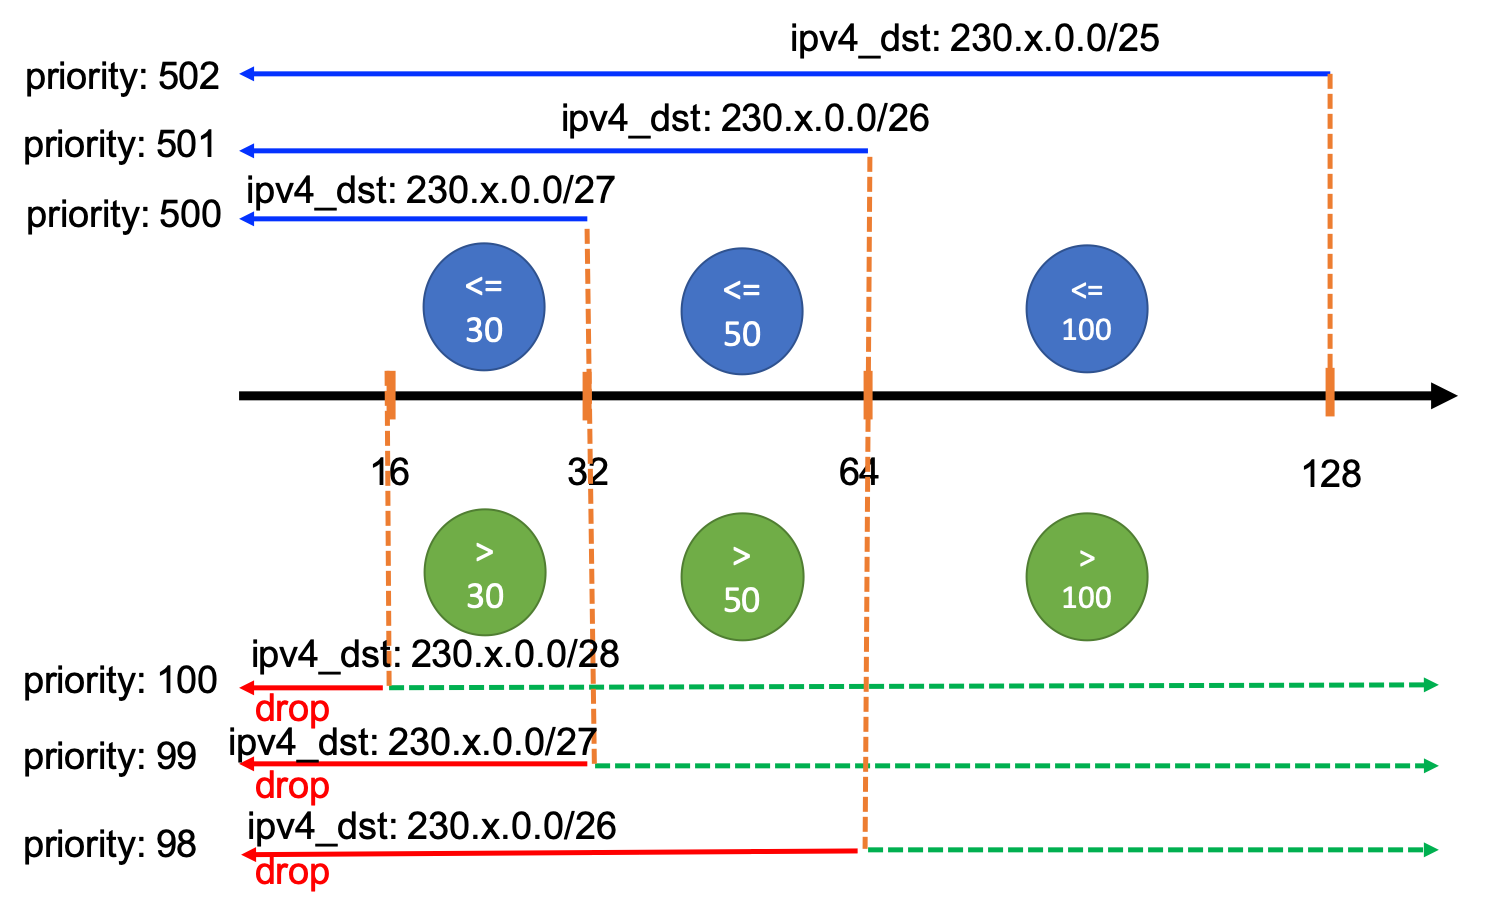
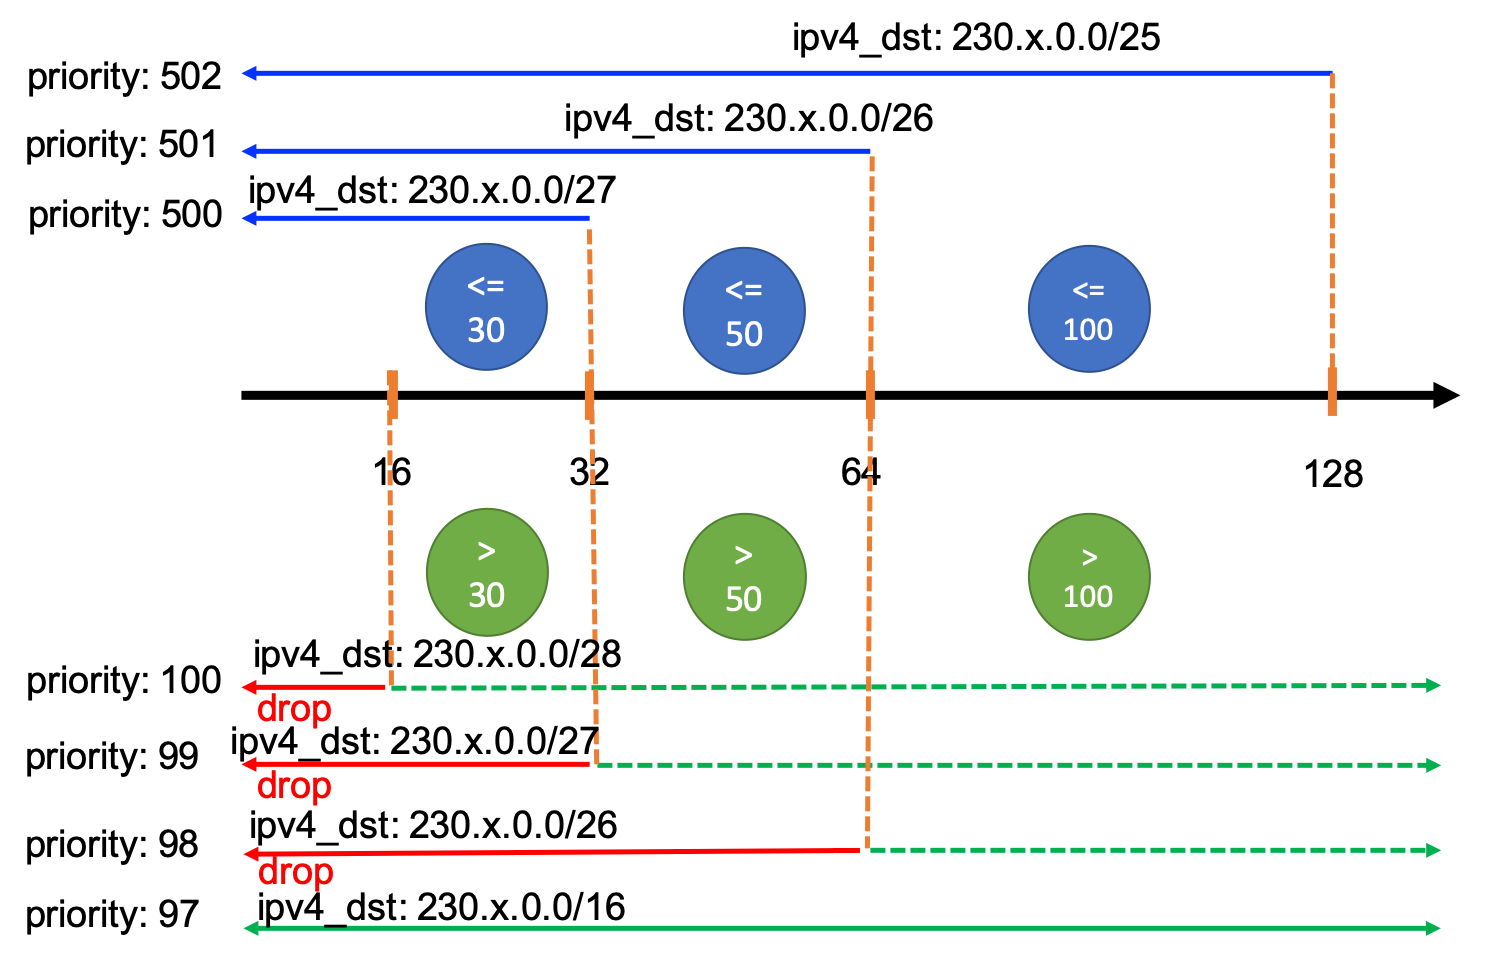
fix: fix bug in deleteFlows, using strict to avoid unnecessary deletion

Changed region(s): [[0.0, 0.0, 0.9912, 0.9782]]

diff --git a/remote_java_ex4/task43/Task43.java b/remote_java_ex4/task43/Task43.java
@@ -13,6 +13,7 @@ import org.projectfloodlight.openflow.protocol.OFFactories;
 import org.projectfloodlight.openflow.protocol.OFFactory;
 import org.projectfloodlight.openflow.protocol.OFFlowAdd;
 import org.projectfloodlight.openflow.protocol.OFFlowDelete;
+import org.projectfloodlight.openflow.protocol.OFFlowDeleteStrict;
 import org.projectfloodlight.openflow.protocol.OFVersion;
 import org.projectfloodlight.openflow.protocol.action.OFAction;
 import org.projectfloodlight.openflow.protocol.action.OFActionOutput;
@@ -65,8 +66,8 @@ public class Task43 implements IFloodlightModule, ITask43Service {
 	private Map<String, Subscription> subMap = new HashMap<>();
 	private List<Subscription> [] lessListArr = new List[]{new ArrayList<>(), new ArrayList<>()}; // 0:type-0, 1:type-1
 	private List<Subscription> [] greaterListArr = new List[]{new ArrayList<>(), new ArrayList<>()}; // new List<Subscription>[]{new ArrayList<>(), new ArrayList<>()}; // 0:type-0, 1:type-1
-	Map<IOFSwitch, List<OFFlowAdd>>[] lessDelMapArr = new Map[]{new HashMap<>(), new HashMap<>()}; // 0:type-0, 1:type-1
-	Map<IOFSwitch, List<OFFlowAdd>>[] greaterDelMapArr = new Map[]{new HashMap<>(), new HashMap<>()}; // 0:type-0, 1:type-1
+	private Map<IOFSwitch, List<OFFlowAdd>>[] lessDelMapArr = new Map[]{new HashMap<>(), new HashMap<>()}; // 0:type-0, 1:type-1
+	private Map<IOFSwitch, List<OFFlowAdd>>[] greaterDelMapArr = new Map[]{new HashMap<>(), new HashMap<>()}; // 0:type-0, 1:type-1
 
 	@Override
 	public Collection<Class<? extends IFloodlightService>> getModuleServices() {
@@ -165,7 +166,6 @@ public class Task43 implements IFloodlightModule, ITask43Service {
 		} else {
 			status = "Successfully added new subscription " + name;
 			subMap.put(name, sub);
-//			createFlow(name, sub);
 			// TODO: change method call to init
 			setIpTable();
 			installFlow(name, sub);
@@ -178,10 +178,21 @@ public class Task43 implements IFloodlightModule, ITask43Service {
 		logger.info("delete content-based flows");	
 		if(!deleteMap.isEmpty()) {
 			for(IOFSwitch sw: deleteMap.keySet()) {
-				List<OFFlowAdd> deleteList = deleteMap.get(sw);
-				for(OFFlowAdd flowAdd: deleteList) {
-					OFFlowDelete flowDelete = FlowModUtils.toFlowDelete(flowAdd);
-					sw.write(flowDelete);
+				if(!sw.getId().equals(DatapathId.of(3))) {
+					List<OFFlowAdd> deleteList = deleteMap.get(sw);
+					for(OFFlowAdd flowAdd: deleteList) {
+						OFFlowDeleteStrict flowDelete = FlowModUtils.toFlowDeleteStrict(flowAdd);
+						logger.info("delete flow: "+flowDelete.toString());	
+						sw.write(flowDelete);
+					}
+				}else if(subMap.isEmpty()) {
+					// delete flow on S3 when there is no subscription
+					List<OFFlowAdd> deleteList = deleteMap.get(sw);
+					for(OFFlowAdd flowAdd: deleteList) {
+						OFFlowDeleteStrict flowDelete = FlowModUtils.toFlowDeleteStrict(flowAdd);
+						logger.info("delete flow on S3: "+flowDelete.toString());	
+						sw.write(flowDelete);
+					}
 				}
 			}
 		deleteMap.clear();
@@ -194,7 +205,7 @@ public class Task43 implements IFloodlightModule, ITask43Service {
 		// classify the subscriptions according to the type and comparator
 		Map<IOFSwitch, List<OFFlowAdd>> delMap = (sub.isGreater()) ? greaterDelMapArr[sub.getType()] : lessDelMapArr[sub.getType()];
 		List<Subscription> installList = (sub.isGreater()) ? greaterListArr[sub.getType()] : lessListArr[sub.getType()];
-		logger.info("install for "+name+" > " + sub.getrVal()+"type: " + sub.getType());
+		logger.info("install for "+name+" isGreater: "+sub.isGreater() + " value: "+sub.getrVal()+" type: " + sub.getType());
 			installList.add(sub);
 			deleteFlow(delMap);
 			if (sub.isGreater()) {
@@ -202,6 +213,7 @@ public class Task43 implements IFloodlightModule, ITask43Service {
 			} else {
 				installLessEqual(installList, delMap);
 			}
+			
 	}
 
 	private void installGreater(List<Subscription> greaterList, Map<IOFSwitch, List<OFFlowAdd>> deleteMap){
@@ -257,7 +269,6 @@ public class Task43 implements IFloodlightModule, ITask43Service {
 				.setExact(MatchField.ETH_TYPE, EthType.IPv4)
 				.setMasked(MatchField.IPV4_DST, IPv4AddressWithMask.of(sub.computeMask()))
 				.build();
-//		OFFlowAdd flowAdd;
 		if(sub.isGreater()){
 			//">": set no action to drop the value below the reference value
 			OFFlowAdd flowAdd = myFactory.buildFlowAdd()
@@ -394,7 +405,7 @@ public class Task43 implements IFloodlightModule, ITask43Service {
 		if (subMap.containsKey(name)) {
 			status = "Successfully deleted subscription " + name;
 			deleteFlow(name);
-			subMap.remove(name);		
+//			subMap.remove(name);		
 		} else {
 			status = "Error! Subscription " + name + " does not exist";
 		}
@@ -404,12 +415,15 @@ public class Task43 implements IFloodlightModule, ITask43Service {
 	// DONE: complete method
 	private void deleteFlow(String name) {
 		Subscription sub = subMap.get(name);
+		subMap.remove(name);
         // classify the subscriptions according to the type and comparator
         Map<IOFSwitch, List<OFFlowAdd>> delMap = (sub.isGreater()) ? greaterDelMapArr[sub.getType()] : lessDelMapArr[sub.getType()];
         List<Subscription> installList = (sub.isGreater()) ? greaterListArr[sub.getType()] : lessListArr[sub.getType()];
-        logger.info("delete flow for "+name+" > " + sub.getrVal()+"type: " + sub.getType());
+        logger.info("delete flow for "+name+" isGreater: "+sub.isGreater()+" value: " + sub.getrVal()+" type: " + sub.getType());
         installList.remove(sub);
+        // uninstall all existing flows
         deleteFlow(delMap);
+        // reinstall new flows excluding deleted subscription
         if(!installList.isEmpty()) {
             if (sub.isGreater()) {
                 installGreater(installList, delMap);

diff --git a/README.md b/README.md
@@ -1,3 +1,6 @@
+# pdf
+- https://docs.google.com/document/d/16rlIwmSmP3yC4BlgtK_izt-25Iqj5b1EXPFMlhHW-3k/edit
+
 # TOD0
 - finish task 4.1 for parsing and min/max
 
@@ -66,6 +69,16 @@ java Subscriber 50004 0 136 all gt
 providing the following REST interface:
 - Floodlight Tutorial: https://floodlight.atlassian.net/wiki/spaces/floodlightcontroller/pages/15040589/How+to+add+a+REST+API+to+a+Module
 - Floodlight delete flow: https://floodlight.atlassian.net/wiki/spaces/floodlightcontroller/pages/1343547/How+to+use+OpenFlowJ-Loxigen
+    +  必須使用delete strict 才不會誤刪
+    
+```
+A side note about "strict": according to OpenFlow specification, the flow modification message and flow deletion message support a "strict" version and a "without strict" version. 
+A "strict" means any flow that exactly looks like the match you specify, then the flow(s) will be modified or deleted. 
+While if you choose a version "without strict", it means any flow that look like the match you specify 
+(i.e. the flow contains at least the match you specify, but could contains more match fields) will be modified or deleted. 
+
+```    
+    
 - JSON Parser: https://github.com/FasterXML/jackson-databind
 - Java 实现 HTTP 请求的三种方式: https://zhuanlan.zhihu.com/p/69285935
 # execution step
